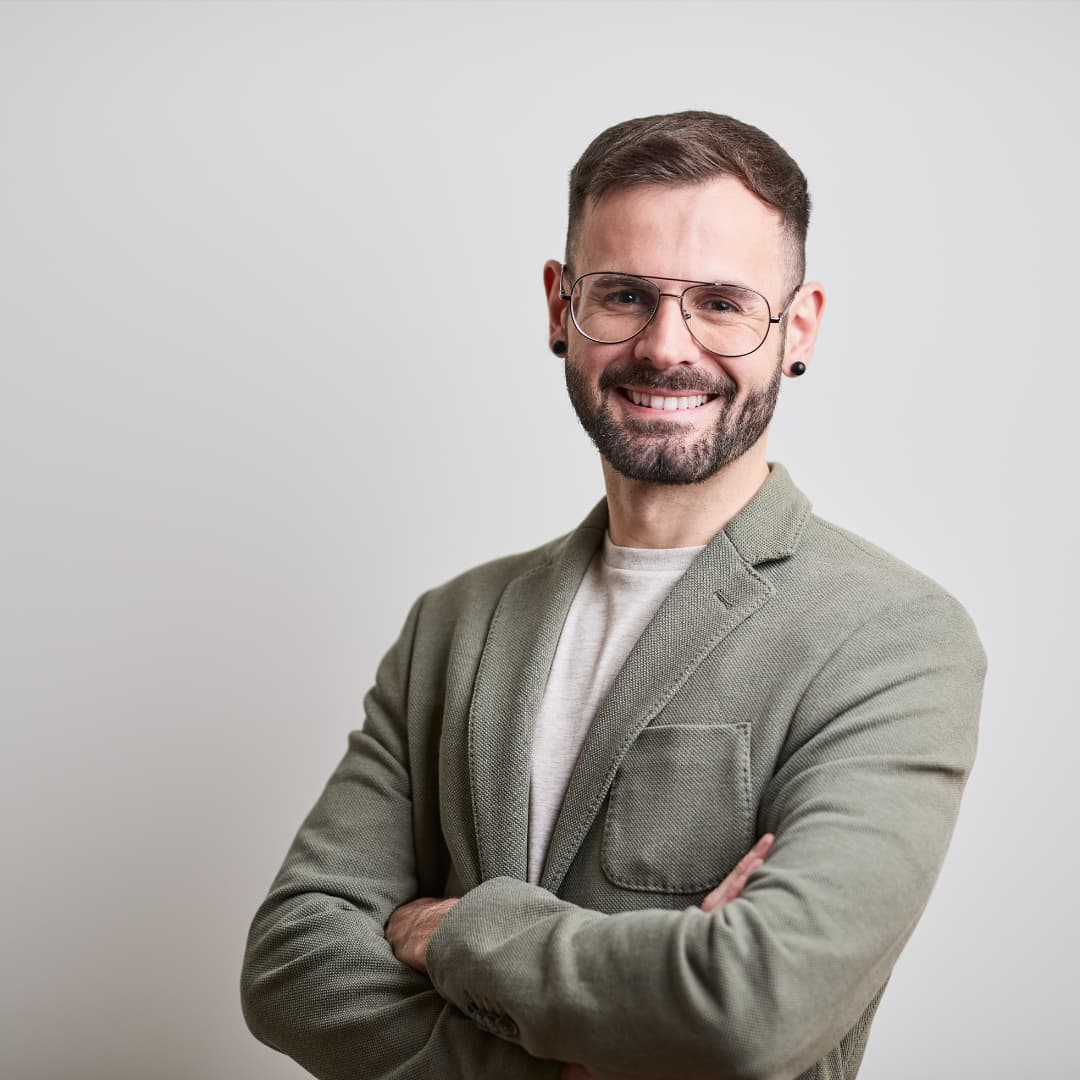
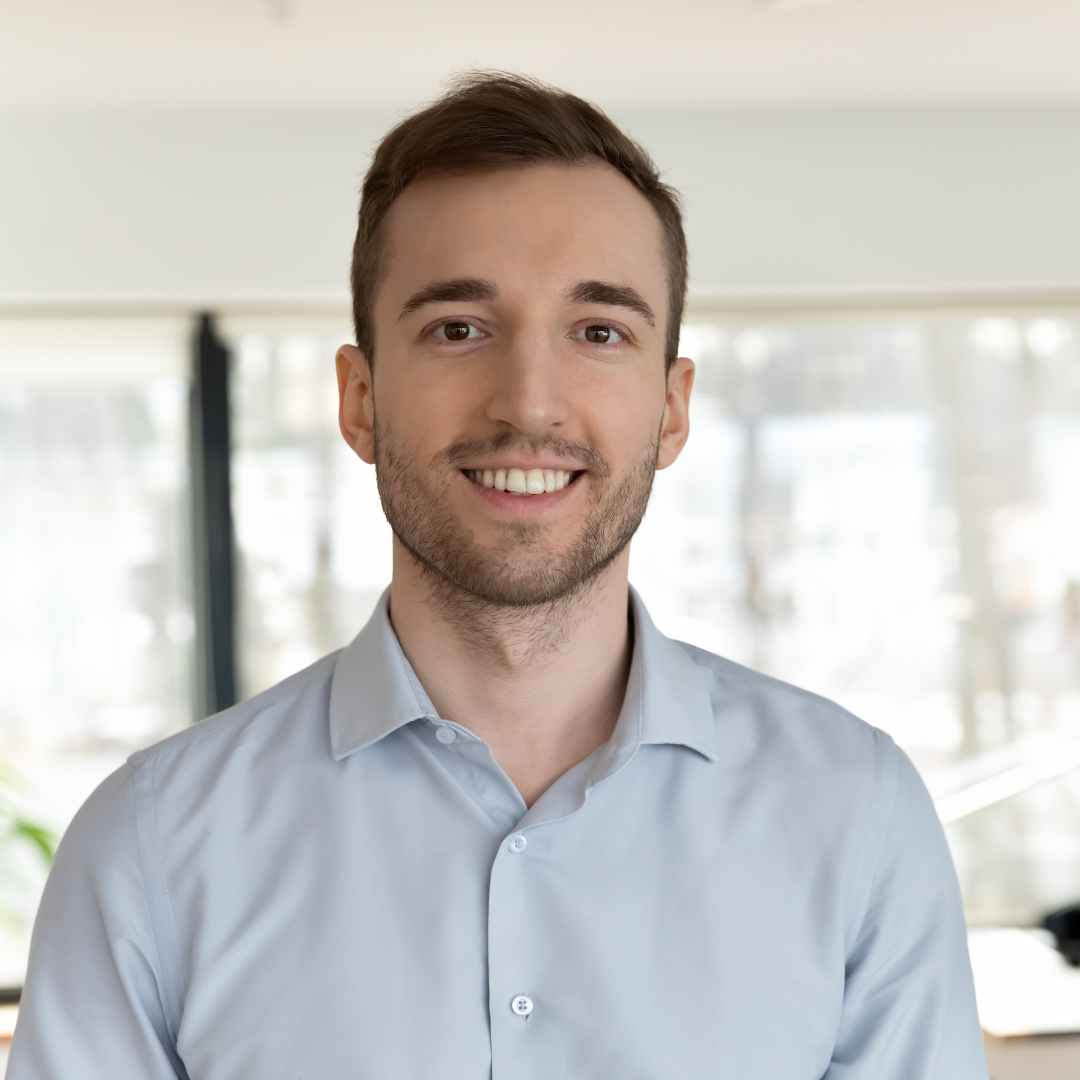
fix issues with links

diff --git a/src/constants/carousel.jsx b/src/constants/carousel.jsx
@@ -4,76 +4,87 @@ export const practitioners = [
         name: "Ignacio G.",
         specialty: "Chronic Pain & Recovery",
         imageUrl: "/images/practioners/ignacio-g.jpg", // Path in your /public folder
-        profileUrl: "https://book.healguid.com/practitioners/ignacio-garcia/r/IrS15v8bd8HE03", // The Next.js page for this practitioner
+        profileUrl:
+            "https://book.healguid.com/practitioners/ignacio-garcia-osteopathic-practitioner-united-states/r/wX6rvGCDbAZpFy", // The Next.js page for this practitioner
     },
     {
         id: 2,
         name: "Jonas M.",
         specialty: "Chronic Fatigue & Energy Issues",
         imageUrl: "/images/practioners/jonas-m.jpg",
-        profileUrl: "https://book.healguid.com/practitioners/jonas-m-ller/r/b5gfDmqZINb3TZ",
+        profileUrl:
+            "https://book.healguid.com/practitioners/jonas-m-ller-integrative-medicine-practitioner-germany/r/kBCD2YJvmnjkhd",
     },
     {
         id: 3,
         name: "Tatiana P.",
         specialty: "Hormonal Imbalances",
         imageUrl: "/images/practioners/tatiana-p.jpg",
-        profileUrl: "https://book.healguid.com/practitioners/tatiana-patel/r/hEhpt8ssNtmCay",
+        profileUrl:
+            "https://book.healguid.com/practitioners/tatiana-patel-functional-medicine-practitioner-united-kingdom/r/oU8S4S7PRJpfeK",
     },
     {
         id: 4,
         name: "Lucia D.",
         specialty: "Hormonal Imbalances",
         imageUrl: "/images/practioners/lucia-d.jpg",
-        profileUrl: "https://book.healguid.com/practitioners/lucia-de-santos/r/v4zZWD61gqZhpQ",
+        profileUrl:
+            "https://book.healguid.com/practitioners/lucia-de-santos-naturopathic-practitioner-united-kingdom/r/mj0ehowZ7NfQuk",
     },
     {
         id: 5,
         name: "Maria R.",
         specialty: "Chronic Fatigue & Energy Issues",
         imageUrl: "/images/practioners/maria-r.jpg",
-        profileUrl: "https://book.healguid.com/practitioners/maria-reyes/r/0ejAj66DaIGJCP",
+        profileUrl:
+            "https://book.healguid.com/practitioners/maria-reyes-functional-medicine-practitioner-united-states/r/HKnsE2QjgEjOXC",
     },
     {
         id: 6,
         name: "Maya O.",
         specialty: "Anxiety & Mental Wellbeing",
         imageUrl: "/images/practioners/maya-o.jpg",
-        profileUrl: "https://book.healguid.com/practitioners/maya-olivier/r/oDCpNIuRicOhXl",
+        profileUrl:
+            "https://book.healguid.com/practitioners/maya-olivier-functional-medicine-practitioner-france/r/jrfsGgkz8OvhxV",
     },
     {
         id: 7,
         name: "Naomi F.",
         specialty: "Preventive Health & Optimization",
         imageUrl: "/images/practioners/naomi-f.jpg",
-        profileUrl: "https://book.healguid.com/practitioners/naomi-feldman/r/q8VE0QGMnWcFjQ",
+        profileUrl:
+            "https://book.healguid.com/practitioners/naomi-feldman-nutritional-therapist-ireland/r/s6h5mOjqRBmQ5n",
     },
     {
         id: 8,
         name: "Ravi S.",
         specialty: "Preventive Health & Optimization",
         imageUrl: "/images/practioners/ravi-s.jpg",
-        profileUrl: "https://book.healguid.com/practitioners/ravi-singh/r/Q7UbLYYCLkBSKK",
+        profileUrl:
+            "https://book.healguid.com/practitioners/ravi-singh-nutritional-therapist-united-kingdom/r/X6SCDn50ZuzKXs",
     },
     {
         id: 9,
         name: "Samuel O.",
         specialty: "Preventive Health & Optimization",
         imageUrl: "/images/practioners/samuel-o.jpg",
-        profileUrl: "https://book.healguid.com/practitioners/samuel-ofori/r/9IBkyl94QtUT23",
+        profileUrl:
+            "https://book.healguid.com/practitioners/samuel-ofori-naturopathic-practitioner-united-kingdom/r/WQcxqOPg5vuPFd",
     },
     {
         id: 10,
         name: "Sarah C.",
         specialty: "Digestive & Gut Health",
         imageUrl: "/images/practioners/sarah-c.jpg",
-        profileUrl: "https://book.healguid.com/practitioners/sarah-chen/r/IJxZcdXMKkvuO0",
+        profileUrl:
+            "https://book.healguid.com/practitioners/sarah-chen-functional-medicine-practitioner-united-kingdom/r/cRMnhqnXbeRcQf",
     },
     {
         id: 11,
         name: "Julia K.",
         specialty: "Digestive & Gut Health",
         imageUrl: "/images/practioners/julia-k.jpg",
-        profileUrl: "https://book.healguid.com/practitioners/julia-kim/r/C5VZw9DkMsYAef",
+        profileUrl:
+            "https://book.healguid.com/practitioners/julia-kim-functional-medicine-practitioner-united-states/r/drrZhyPDTbcWxJ",
     },
 ];

diff --git a/src/pages/about.jsx b/src/pages/about.jsx
@@ -7,6 +7,7 @@ import { aboutUs } from "../constants/general.jsx";
 import Button from "../components/ui/Button";
 import Header from "../components/sections/Header";
 
+import Meta from "../components/others/Meta";
 export default function FAQ() {
     const [videoErrors, setVideoErrors] = useState({}); // Track errors for each video
     const data = { type: "clients" };
@@ -35,18 +36,25 @@ export default function FAQ() {
     });
     return (
         <>
+            <Meta
+                title="About HealGuid | Verified Holistic Practitioners in the UK"
+                description="HealGuid connects UK patients with rigorously verified holistic & functional practitioners. Support for chronic conditions—gut, hormones and autoimmune."
+                keywords="about us, data protection, health information privacy, holistic healthcare privacy"
+                path="privacy-policy"
+                canonicalUrl="https://healguid.com/privacy-policy"
+            />
             <section className="py-16 max-md:pt-20 max-lg:pt-28 lg:pt-44 bg-b3 lg:min-h-lvh">
                 <Header data={{ menus: aboutUs.menus, type: "about", extra: "faq" }} />
                 <article className="flex flex-col ">
                     <div className="container lg:py-16 max-lg:py-12">
-                        <div className="max-lg:text-center">
+                        <h1 className="max-lg:text-center">
                             <PageTitle>{aboutUs.title}</PageTitle>
-                        </div>
+                        </h1>
 
                         <div className="lg:ml-auto flex mb-3 lg:-mt-8 container">
-                            <h3 className="lg:font-semibold max-lg:font-medium text-xl max-lg:mt-2 lg:ml-auto max-lg:mx-auto max-md:text-center">
+                            <h2 className="lg:font-semibold max-lg:font-medium text-xl max-lg:mt-2 lg:ml-auto max-lg:mx-auto max-md:text-center">
                                 {aboutUs.subTitle}
-                            </h3>
+                            </h2>
                         </div>
 
                         <h3 className="text-center text-p1 lg:text-3xl max-lg:text-2xl lg:mt-24 max-lg:mt-6 max-sm:mt-20 lg:mb-10 max-lg:mb-4 font-semibold">

diff --git a/src/pages/_document.jsx b/src/pages/_document.jsx
@@ -2,21 +2,21 @@ import { Html, Head, Main, NextScript } from "next/document";
 
 export default function Document() {
     return (
-      <Html lang="en-GB">
-        <Head>
-          {/* Preconnect hints for faster DNS/TLS */}
-          <link rel="preconnect" href="https://www.googletagmanager.com" />
-          {/* Remove if you do NOT load Facebook Pixel anywhere */}
-          <link rel="preconnect" href="https://connect.facebook.net" />
-  
-          {/* existing comments or tags below */}
-          {/* <meta charSet="utf-8" /> */}
-          {/* <meta name="viewport" ... /> */}
-        </Head>
-        <body>
-          <Main />
-          <NextScript />
-        </body>
-      </Html>
+        <Html lang="en-GB">
+            <Head>
+                {/* Preconnect hints for faster DNS/TLS */}
+                <link rel="preconnect" href="https://www.googletagmanager.com" />
+                {/* Remove if you do NOT load Facebook Pixel anywhere */}
+                <link rel="preconnect" href="https://connect.facebook.net" />
+
+                {/* existing comments or tags below */}
+                {/* <meta charSet="utf-8" /> */}
+                {/* <meta name="viewport" content="width=device-width, initial-scale=1" /> */}
+            </Head>
+            <body>
+                <Main />
+                <NextScript />
+            </body>
+        </Html>
     );
-  }
+}

diff --git a/src/components/sections/Header.jsx b/src/components/sections/Header.jsx
@@ -184,7 +184,7 @@ const Header = ({ data }) => {
                                                 textClassName="tracking-wide font-bold text-white"
                                                 href={
                                                     data?.type?.includes("client")
-                                                        ? "https://book.healguid.com/book-consultation"
+                                                        ? "https://book.healguid.com/get-matched"
                                                         : "https://book.healguid.com/apply"
                                                 }
                                             >
@@ -207,7 +207,7 @@ const Header = ({ data }) => {
                         textContainerClassName="min-h-[32px] px-2 mx-0"
                         href={
                             ["clients", "faq", "privacy", "about", "terms"].includes(data?.type)
-                                ? "https://book.healguid.com/book-consultation"
+                                ? "https://book.healguid.com/get-matched"
                                 : "https://book.healguid.com/apply"
                         }
                     >

diff --git a/src/pages/terms-and-conditions.jsx b/src/pages/terms-and-conditions.jsx
@@ -137,7 +137,7 @@ export default function TermsAndConditions() {
         <div className="min-h-screen bg-gray-50">
             <Meta
                 title="Terms & Conditions – HealGuid"
-                description="Review HealGuid’s Terms & Conditions governing trusted practitioner partnerships, platform use, clear rights, and fair responsibilities for both therapists and clients."
+                description="Read HealGuid’s Terms & Conditions covering verification, patient bookings, fees and platform use."
                 keywords="terms and conditions, partnership agreements, therapist terms, platform use, legal agreements, practitioner responsibilities, client rights, HealGuid terms"
                 path="terms-and-conditions"
                 canonicalUrl="https://healguid.com/terms-and-conditions"

diff --git a/src/pages/partners.jsx b/src/pages/partners.jsx
@@ -45,7 +45,7 @@ export default function Partners() {
     return (
         <>
             <Meta
-                title="Grow Your Holistic Practice & Connect with 500+ Monthly Patient Searches | HealGuid"
+                title="Grow Your Holistic Practice with HealGuid & Connect with More Patients"
                 description="Join 50+ verified holistic practitioners connecting with patients seeking holitisc and natural care. Get 3X more consultations with our trusted verification system."
                 path="partners"
             />

diff --git a/src/components/sections/HeaderLoop.jsx b/src/components/sections/HeaderLoop.jsx
@@ -202,7 +202,7 @@ const HeaderLoop = ({ data }) => {
                         textContainerClassName="min-h-[36px] md:min-w-[130px] px-2 mx-0"
                         href={
                             data?.type?.includes("client")
-                                ? "https://book.healguid.com/book-consultation"
+                                ? "https://book.healguid.com/get-matched"
                                 : "https://book.healguid.com/apply"
                         }
                     >

diff --git a/src/components/sections/Hero.jsx b/src/components/sections/Hero.jsx
@@ -131,7 +131,7 @@ const Hero = ({ data, func }) => {
                         <a
                             href={
                                 data.type.includes("client")
-                                    ? "https://book.healguid.com/book-consultation"
+                                    ? "https://book.healguid.com/get-matched"
                                     : "https://book.healguid.com/apply"
                             }
                         >
